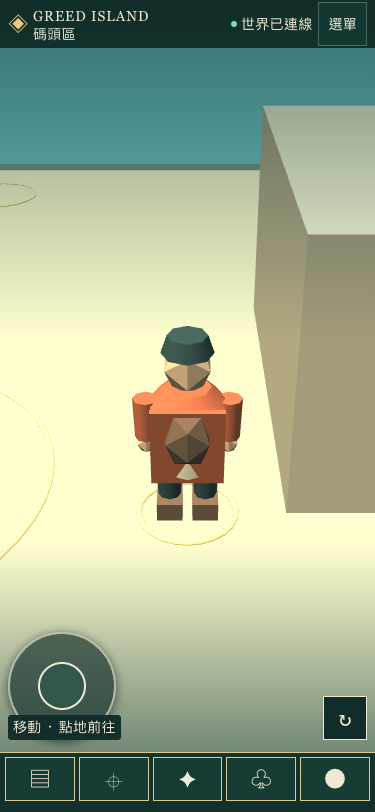
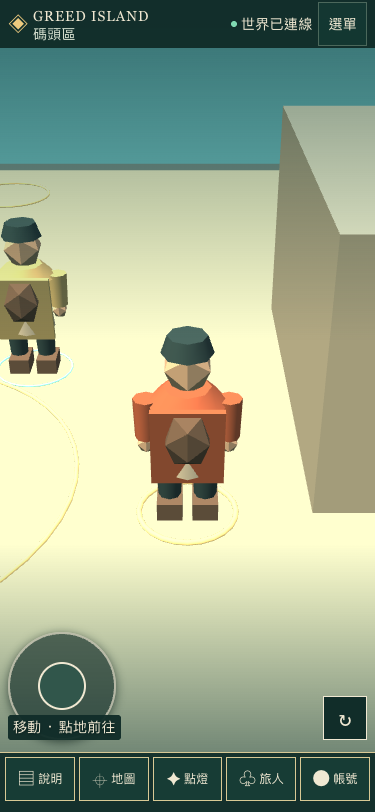
fix(web): finish desktop and mobile layout follow-up

diff --git a/e2e/mobile-layout.spec.ts b/e2e/mobile-layout.spec.ts
@@ -81,12 +81,69 @@ test('desktop 1280x800 keeps reset text and places the region selector below the
   const geometry = await page.evaluate(() => {
     const map = document.querySelector('.mp-map svg')!.getBoundingClientRect()
     const select = document.querySelector('#world-region')!.getBoundingClientRect()
+    const panel = document.querySelector('.mp-world-panel')!
     const overlapWidth = Math.max(0, Math.min(map.right, select.right) - Math.max(map.left, select.left))
     const overlapHeight = Math.max(0, Math.min(map.bottom, select.bottom) - Math.max(map.top, select.top))
-    return { map: { left: map.left, top: map.top, right: map.right, bottom: map.bottom }, select: { left: select.left, top: select.top, right: select.right, bottom: select.bottom }, overlapArea: overlapWidth * overlapHeight }
+    const scrollChains = ['.mp-players', '.mp-npcs', '.mp-messages'].map(selector => {
+      const list = panel.querySelector(selector)!
+      const overflow = []
+      for (let node: Element | null = list; node && panel.contains(node); node = node.parentElement) {
+        const value = getComputedStyle(node).overflowY
+        if (value === 'auto' || value === 'scroll') overflow.push(`${node.className}:${value}`)
+        if (node === panel) break
+      }
+      return { selector, count: overflow.length, overflow }
+    })
+    return { map: { left: map.left, top: map.top, right: map.right, bottom: map.bottom }, select: { left: select.left, top: select.top, right: select.right, bottom: select.bottom }, overlapArea: overlapWidth * overlapHeight, scrollChains }
   })
   expect(geometry.overlapArea, `map ${JSON.stringify(geometry.map)} / selector ${JSON.stringify(geometry.select)}`).toBe(0)
-  console.log(`[mobile-layout] desktop-reset visibleText=${await reset.evaluate(button => button.innerText)} mapBottom=${geometry.map.bottom.toFixed(1)} selectorTop=${geometry.select.top.toFixed(1)} overlap=${geometry.overlapArea}`)
+  expect(geometry.scrollChains, 'each desktop list has exactly one scrollable ancestor chain').toEqual([
+    { selector: '.mp-players', count: 1, overflow: ['mp-players:auto'] },
+    { selector: '.mp-npcs', count: 1, overflow: ['mp-npcs:auto'] },
+    { selector: '.mp-messages', count: 1, overflow: ['mp-messages:auto'] },
+  ])
+  console.log(`[mobile-layout] desktop-reset visibleText=${await reset.evaluate(button => button.innerText)} mapBottom=${geometry.map.bottom.toFixed(1)} selectorTop=${geometry.select.top.toFixed(1)} overlap=${geometry.overlapArea} scrollChainCounts=${geometry.scrollChains.map(chain => `${chain.selector}:${chain.count}`).join(',')}`)
+})
+
+test('mobile bottom tool buttons show two-character labels without clipping at 375, 393 and 430px', async ({ page }) => {
+  await mobilePage(page)
+  const expected = ['說明', '地圖', '點燈', '旅人', '帳號']
+  for (const size of sizes.filter(item => [375, 393, 430].includes(item.width))) {
+    await page.setViewportSize({ width: size.width, height: size.height })
+    const buttons = await page.locator('.mp-mobile-tools button').evaluateAll(elements => elements.map(button => {
+      const label = button.querySelector<HTMLElement>('.mp-tool-label')!
+      const style = getComputedStyle(label)
+      const rect = button.getBoundingClientRect()
+      return { label: label.innerText, fontSize: parseFloat(style.fontSize), whiteSpace: style.whiteSpace, scrollWidth: button.scrollWidth, clientWidth: button.clientWidth, height: rect.height }
+    }))
+    expect(buttons.map(button => button.label)).toEqual(expected)
+    for (const [index, button] of buttons.entries()) {
+      expect([...button.label].length, `${size.name} tool ${index} label length`).toBe(2)
+      expect(button.fontSize, `${size.name} tool ${button.label} font size`).toBeGreaterThanOrEqual(12)
+      expect(button.whiteSpace, `${size.name} tool ${button.label} no-wrap`).toBe('nowrap')
+      expect(button.scrollWidth, `${size.name} tool ${button.label} unclipped`).toBeLessThanOrEqual(button.clientWidth)
+      expect(button.height, `${size.name} tool ${button.label} touch height`).toBeGreaterThanOrEqual(44)
+    }
+    console.log(`[mobile-layout] tool-labels size=${size.name} labels=${buttons.map(button => button.label).join('/')} font=${Math.min(...buttons.map(button => button.fontSize))}px minHeight=${Math.min(...buttons.map(button => button.height))}px maxScroll=${Math.max(...buttons.map(button => button.scrollWidth - button.clientWidth))}`)
+  }
+})
+
+test('mobile traveller drawer keeps the first NPC row fully inside the scroll viewport', async ({ page }) => {
+  await mobilePage(page)
+  await page.getByRole('button', { name: '旅人與 NPC' }).click()
+  const firstNpc = page.locator('.mp-npcs li').first()
+  await expect(firstNpc).toBeVisible()
+  const boxes = await page.evaluate(() => {
+    const row = document.querySelector('.mp-npcs li')!.getBoundingClientRect()
+    const list = document.querySelector('.mp-npcs')!.getBoundingClientRect()
+    const drawer = document.querySelector('.mp-mobile-drawer')!.getBoundingClientRect()
+    return { rowTop: row.top, rowBottom: row.bottom, listTop: list.top, listBottom: list.bottom, drawerTop: drawer.top, drawerBottom: drawer.bottom, firstNpc: document.querySelector('.mp-npcs li')!.textContent?.trim() }
+  })
+  expect(boxes.rowTop, `first NPC row ${boxes.firstNpc} starts below drawer top`).toBeGreaterThanOrEqual(boxes.drawerTop)
+  expect(boxes.rowTop, `first NPC row ${boxes.firstNpc} starts at list row boundary`).toBeGreaterThanOrEqual(boxes.listTop)
+  expect(boxes.rowBottom, `first NPC row ${boxes.firstNpc} is fully visible in list`).toBeLessThanOrEqual(boxes.listBottom)
+  expect(boxes.rowBottom, `first NPC row ${boxes.firstNpc} is fully visible in drawer`).toBeLessThanOrEqual(boxes.drawerBottom)
+  console.log(`[mobile-layout] first-npc row=${boxes.firstNpc} top=${boxes.rowTop.toFixed(1)} bottom=${boxes.rowBottom.toFixed(1)} list=${boxes.listTop.toFixed(1)}..${boxes.listBottom.toFixed(1)} drawer=${boxes.drawerTop.toFixed(1)}..${boxes.drawerBottom.toFixed(1)}`)
 })
 
 async function mobilePage(page: Page) {
@@ -150,7 +207,7 @@ async function auditMobileUi(page: Page) {
     })
     const buttons = [...document.querySelectorAll('button')].filter(visible)
     const misses = buttons.flatMap(button => { const r = button.getBoundingClientRect(); return document.elementFromPoint(r.left + r.width / 2, r.top + r.height / 2) === button && r.width >= 44 && r.height >= 44 ? [] : [button.textContent?.trim() || button.getAttribute('aria-label') || 'unnamed'] })
-    const smallText = textElements.flatMap(el => { const size = parseFloat(getComputedStyle(el).fontSize); return size < 14 && !el.closest('.mp-authority,.mp-progress-note,.mp-controls-hint') ? [{ text: el.textContent?.trim().slice(0, 32), size }] : [] })
+    const smallText = textElements.flatMap(el => { const size = parseFloat(getComputedStyle(el).fontSize); const minimum = el.classList.contains('mp-tool-label') ? 12 : 14; return size < minimum && !el.closest('.mp-authority,.mp-progress-note,.mp-controls-hint') ? [{ text: el.textContent?.trim().slice(0, 32), size }] : [] })
     return { misses, smallText, lowContrast }
   })
 }
@@ -264,7 +321,7 @@ test('mobile readable text and visible button centers meet touch requirements', 
       const visible = (el: Element) => { const r = el.getBoundingClientRect(); return r.width > 0 && r.height > 0 && getComputedStyle(el).visibility !== 'hidden' }
       const buttons = [...document.querySelectorAll('button')].filter(visible)
       const misses = buttons.flatMap(button => { const r = button.getBoundingClientRect(); return document.elementFromPoint(r.left + r.width / 2, r.top + r.height / 2) === button && r.width >= 44 && r.height >= 44 ? [] : [button.textContent?.trim() || button.getAttribute('aria-label') || 'unnamed'] })
-      const smallText = [...document.querySelectorAll('body *')].filter(visible).filter(el => [...el.childNodes].some(n => n.nodeType === Node.TEXT_NODE && !!n.textContent?.trim())).flatMap(el => { const size = parseFloat(getComputedStyle(el).fontSize); return size < 14 && !el.closest('.mp-authority,.mp-progress-note,.mp-controls-hint') ? [{ text: el.textContent?.trim().slice(0, 32), size }] : [] })
+      const smallText = [...document.querySelectorAll('body *')].filter(visible).filter(el => [...el.childNodes].some(n => n.nodeType === Node.TEXT_NODE && !!n.textContent?.trim())).flatMap(el => { const size = parseFloat(getComputedStyle(el).fontSize); const minimum = el.classList.contains('mp-tool-label') ? 12 : 14; return size < minimum && !el.closest('.mp-authority,.mp-progress-note,.mp-controls-hint') ? [{ text: el.textContent?.trim().slice(0, 32), size }] : [] })
       const version = [...document.querySelectorAll('.mp-authority')].some(el => visible(el))
       return { viewport: innerWidth, scroll: document.documentElement.scrollWidth, misses, smallText, version }
     })

diff --git a/packages/web/src/multiplayer3d/multiplayer.css b/packages/web/src/multiplayer3d/multiplayer.css
@@ -18,8 +18,9 @@
 @media(min-width:768px){.mp-world-panel{top:335px;bottom:190px}.mp-map{width:160px}}
 @media(max-width:767px){.mp-map{width:112px}.mp-map select{font-size:10px;padding:3px}.mp-panel-toggle{top:285px}.mp-world-panel{top:335px;bottom:241px}.mp-progress-note{max-width:calc(100vw - 32px);font-size:8px}.mp-bottom{pointer-events:none}.mp-actions{bottom:128px}.mp-touch{bottom:142px}.mp-feedback{bottom:267px}}
 @media(max-width:767px) and (max-height:760px){.mp-world-panel{top:77px;bottom:241px;z-index:7}}
-.mp-world-panel{overflow-y:auto;overscroll-behavior:contain}.mp-world-panel .mp-players{flex:0 1 120px}.mp-world-panel .mp-panel-heading,.mp-world-panel .mp-chat-heading,.mp-world-panel .mp-npc-note{flex-shrink:0}.mp-world-panel .mp-npcs{min-height:60px}
-@media(min-width:1024px) and (max-height:800px){.mp-map{width:126px}.mp-map select{position:relative;left:-75px;width:220px;min-height:48px;white-space:normal}.mp-world-panel{top:310px;bottom:150px}}
+.mp-world-panel .mp-players{flex:0 1 120px}.mp-world-panel .mp-panel-heading,.mp-world-panel .mp-chat-heading,.mp-world-panel .mp-npc-note{flex-shrink:0}.mp-world-panel .mp-npcs{min-height:60px}
+@media(min-width:1024px) and (max-height:800px){.mp-map select{padding-left:5.7px;padding-right:5.7px}.mp-world-panel{top:310px;bottom:150px}}
+@media(min-width:768px){.mp-world-panel{overflow-y:hidden}}
 .mp-admin-recovery{padding:0 10px;font-size:11px!important}.mp-recovery-close{margin-top:16px;width:100%}.mp-recovery-target{font-size:13px;line-height:1.6}.mp-login>label{display:block;font-size:11px;margin:14px 0 8px}.mp-login>input{width:100%;min-height:44px;margin-bottom:8px}.mp-login>button{min-height:44px}.mp-login>small{overflow-wrap:anywhere}
 .mp-world-panel .mp-messages{min-height:90px;flex:0 1 150px}.mp-world-panel .mp-chat-form{flex-shrink:0;padding-bottom:8px}.mp-world-panel .mp-messages strong small{font-size:8px;color:#b8c7b2}
 .mp-game-links{display:flex;gap:12px;font-size:11px}.mp-game-links a{color:#eee5ca;min-height:44px;display:flex;align-items:center;white-space:nowrap}
@@ -29,18 +30,18 @@
 @media(max-width:767px){.mp-beacon-panel{left:16px;top:330px;width:calc(100% - 188px);max-height:calc(100% - 574px)}.mp-beacon-panel summary{padding:12px 10px;font-size:10px}.mp-beacon-panel[open]{width:calc(100% - 32px);max-height:calc(100% - 574px)}.mp-beacon-body p{font-size:11px}}
 @media(max-width:767px) and (max-height:760px){.mp-beacon-panel[open]{top:120px;max-height:calc(100% - 364px)}.mp-beacon-panel:not([open]){max-height:48px}}
 
-/* Mobile scene-first layout: keep world information legible without covering the play area. */
-.mp3d{overflow:hidden;overflow:clip;max-width:100vw;max-width:100dvw}
-.mp3d :is(.mp-mission,.mp-map,.mp-world-panel,.mp-actions,.mp-touch,.mp-beacon-panel,.mp-header,.mp-bottom,.mp-feedback){text-shadow:0 1px 3px #071b18}
-.mp3d :is(.mp-game-links,.mp-map,.mp-mission,.mp-actions,.mp-beacon-panel,.mp-feedback,.mp-controls-hint){color:#f0e8d2}
-.mp3d :is(.mp-game-links,.mp-map,.mp-mission,.mp-actions,.mp-beacon-panel,.mp-feedback){background-color:#102c28f5;border-color:#d8c995}
-.mp3d :is(.mp-progress-note,.mp-stick small,.mp-map small,.mp-mission p,.mp-connection,.mp-self p){color:#f0e8d2}
-.mp3d .mp-stick{width:112px;height:112px;border:2px solid #f0e8d2;background:#102c28eF;box-shadow:0 2px 10px #071b18aa}
-.mp3d .mp-stick>span{width:48px;height:48px;border:2px solid #f0e8d2;background:#31564b}
+/* Mobile scene-first layout: keep the world presentation unchanged at desktop sizes. */
 .mp-camera-reset-label,.mp-camera-reset-icon{pointer-events:none}
 .mp-camera-reset-icon{display:none}
-.mp3d .mp-game-links{flex-wrap:wrap;overflow:visible}
 @media(max-width:767px){
+  .mp3d{overflow:hidden;overflow:clip;max-width:100vw;max-width:100dvw}
+  .mp3d :is(.mp-mission,.mp-map,.mp-world-panel,.mp-actions,.mp-touch,.mp-beacon-panel,.mp-header,.mp-bottom,.mp-feedback){text-shadow:0 1px 3px #071b18}
+  .mp3d :is(.mp-game-links,.mp-map,.mp-mission,.mp-actions,.mp-beacon-panel,.mp-feedback,.mp-controls-hint){color:#f0e8d2}
+  .mp3d :is(.mp-game-links,.mp-map,.mp-mission,.mp-actions,.mp-beacon-panel,.mp-feedback){background-color:#102c28f5;border-color:#d8c995}
+  .mp3d :is(.mp-progress-note,.mp-stick small,.mp-map small,.mp-mission p,.mp-connection,.mp-self p){color:#f0e8d2}
+  .mp3d .mp-stick{width:112px;height:112px;border:2px solid #f0e8d2;background:#102c28eF;box-shadow:0 2px 10px #071b18aa}
+  .mp3d .mp-stick>span{width:48px;height:48px;border:2px solid #f0e8d2;background:#31564b}
+  .mp3d .mp-game-links{flex-wrap:wrap;overflow:visible}
   .mp-header{left:0;right:0;top:0;min-height:62px;padding:8px 12px;gap:8px;flex-wrap:wrap;background:#102c28f5}
   .mp-brand{min-width:0;flex:1 1 auto;margin:0}
   .mp-brand strong{font-size:13px;letter-spacing:1.5px}
@@ -150,7 +151,9 @@
   .mp-account-drawer .mp-authority{display:none}
   .mp-drawer-scrim{z-index:10;inset:48px 0 60px;background:#061a1866}
   .mp-mobile-tools{display:flex;position:absolute;z-index:12;left:0;right:0;bottom:0;min-height:calc(60px + env(safe-area-inset-bottom));padding:4px 5px env(safe-area-inset-bottom);gap:4px;justify-content:space-around;background:#102c28ed;border-top:1px solid #d8c995}
-  .mp-mobile-tools button{flex:1 1 0;min-width:0;min-height:44px;max-height:44px;padding:0 2px;font-size:22px;line-height:1;background:#173c35;border-color:#d8c995}
+  .mp-mobile-tools button{display:flex;align-items:center;justify-content:center;gap:3px;flex:1 1 0;min-width:0;height:44px;min-height:44px;max-height:44px;padding:0 2px;font-size:12px;line-height:1;white-space:nowrap;background:#173c35;border-color:#d8c995}
+  .mp-mobile-tools .mp-tool-icon{flex:0 0 auto;font-size:18px;line-height:1;pointer-events:none}
+  .mp-mobile-tools .mp-tool-label{flex:0 0 auto;font-size:12px;line-height:1;white-space:nowrap;pointer-events:none}
   .mp-mobile-tools button[aria-pressed=true]{background:#73552b;color:#fff0c2}
   .mp-panel-toggle,.mp-bottom{display:none!important}
   .mp-actions{left:auto;right:8px;bottom:calc(72px + env(safe-area-inset-bottom));width:auto;max-width:52px;background:transparent;gap:4px}

diff --git a/packages/web/src/multiplayer3d/Multiplayer3DPage.tsx b/packages/web/src/multiplayer3d/Multiplayer3DPage.tsx
@@ -160,7 +160,7 @@ export default function Multiplayer3DPage() {
     </section>
     {mobileDrawer && <div className="mp-drawer-scrim" aria-hidden="true" onClick={() => setMobileDrawer(null)} />}
     {snapshot && <button className="mp-panel-toggle" aria-expanded={panelOpen} aria-controls="mp-world-panel" onClick={() => setPanelOpen(open => !open)}>{panelOpen ? '收起在場名單' : `旅人與 NPC · ${onlinePlayers.length + snapshot.npcs.length}`}</button>}
-    {snapshot && <nav className="mp-mobile-tools" aria-label="場景工具"><button aria-label="碼頭區說明" aria-pressed={mobileDrawer === 'mission'} onClick={() => { setMenuOpen(false); setMobileDrawer(mobileDrawer === 'mission' ? null : 'mission') }}>▤</button><button aria-label="共同世界地圖" aria-pressed={mobileDrawer === 'map'} onClick={() => { setMenuOpen(false); setMobileDrawer(mobileDrawer === 'map' ? null : 'map') }}>⌖</button><button aria-label="點燈任務" aria-pressed={mobileDrawer === 'beacon'} onClick={() => { setMenuOpen(false); setMobileDrawer(mobileDrawer === 'beacon' ? null : 'beacon') }}>✦</button><button aria-label="旅人與 NPC" aria-pressed={mobileDrawer === 'people'} onClick={() => { setMenuOpen(false); setMobileDrawer(mobileDrawer === 'people' ? null : 'people') }}>♧</button><button aria-label="帳號卡" aria-pressed={mobileDrawer === 'account'} onClick={() => { setMenuOpen(false); setMobileDrawer(mobileDrawer === 'account' ? null : 'account') }}>●</button></nav>}
+    {snapshot && <nav className="mp-mobile-tools" aria-label="場景工具"><button aria-label="碼頭區說明" aria-pressed={mobileDrawer === 'mission'} onClick={() => { setMenuOpen(false); setMobileDrawer(mobileDrawer === 'mission' ? null : 'mission') }}><span className="mp-tool-icon" aria-hidden="true">▤</span><span className="mp-tool-label">說明</span></button><button aria-label="共同世界地圖" aria-pressed={mobileDrawer === 'map'} onClick={() => { setMenuOpen(false); setMobileDrawer(mobileDrawer === 'map' ? null : 'map') }}><span className="mp-tool-icon" aria-hidden="true">⌖</span><span className="mp-tool-label">地圖</span></button><button aria-label="點燈任務" aria-pressed={mobileDrawer === 'beacon'} onClick={() => { setMenuOpen(false); setMobileDrawer(mobileDrawer === 'beacon' ? null : 'beacon') }}><span className="mp-tool-icon" aria-hidden="true">✦</span><span className="mp-tool-label">點燈</span></button><button aria-label="旅人與 NPC" aria-pressed={mobileDrawer === 'people'} onClick={() => { setMenuOpen(false); setMobileDrawer(mobileDrawer === 'people' ? null : 'people') }}><span className="mp-tool-icon" aria-hidden="true">♧</span><span className="mp-tool-label">旅人</span></button><button aria-label="帳號卡" aria-pressed={mobileDrawer === 'account'} onClick={() => { setMenuOpen(false); setMobileDrawer(mobileDrawer === 'account' ? null : 'account') }}><span className="mp-tool-icon" aria-hidden="true">●</span><span className="mp-tool-label">帳號</span></button></nav>}
     {profile && <footer className="mp-bottom"><section className="mp-self" aria-label="自己的共同世界帳號"><span className="mp-avatar">旅</span><div><strong>{profile.displayName}</strong><p>帳號 #{profile.accountId}{self && <> · {self.x.toFixed(1)}, {self.z.toFixed(1)}</>}</p></div></section><small className="mp-authority">位置由伺服器保存 · v{APP_VERSION}</small><small className="mp-progress-note">{snapshot ? harborProgressText(snapshot.harborProgress) : '等待伺服器港口進度'}</small></footer>}
      {snapshot && selected && <div className="mp-actions"><small>{selected.id === snapshot.tileId ? `目前所在：${selected.name}` : `${selected.name} · ${regionStatus(selected)}`}</small>{selected.id !== snapshot.tileId && <button className="mp-primary" disabled={!online || !crossing?.ready || transitionBusy} onClick={() => { void transition() }}>{transitionBusy ? '通路申請中…' : crossing?.text}</button>}<button className="mp-camera-reset" aria-label="重置鏡頭" onClick={() => { controls.current.recenter = true; canvasRef.current?.focus({ preventScroll: true }) }}><span className="mp-camera-reset-label">重置鏡頭</span><span className="mp-camera-reset-icon" aria-hidden="true">↻</span></button></div>}
     {snapshot && <div className="mp-touch"><div className="mp-stick" role="group" aria-label="觸控移動搖桿；也可點擊地面前往目的地" onPointerDown={event => { if (controls.current.paused) return; event.currentTarget.setPointerCapture(event.pointerId); moveStick(event) }} onPointerMove={moveStick} onPointerUp={releaseStick} onPointerCancel={releaseStick} onLostPointerCapture={releaseStick}><span style={{ transform: `translate(${stick.x}px, ${stick.y}px)` }} /><small>移動 · 點地前往</small></div></div>}

diff --git a/PROGRESS.md b/PROGRESS.md
@@ -2,11 +2,23 @@
 
 - Mobile `<768px` now keeps the 3D scene exposed behind a 48px header and five icon touch targets; scene details, map, beacon, travellers/NPC chat and account information share one dismissible bottom drawer. Menu navigation contains world overview, profile, codex, social/trading, account recovery and logout. Desktop panel/navigation presentation remains in place.
 - `e2e/mobile-layout.spec.ts`: all 7 tests pass locally against `localhost:4178/game` using `mobile-qa-1014`; `auditMobileUi` checks all visible text at **≥4.5:1** contrast, **≥14px** font and visible button centers/44px targets. `npm run build:web` and web tests pass (57 files / 521 tests). The first CI run `38488752223` exposed that `aria-hidden` on the desktop `display:contents` wrapper hid world chat from role queries; desktop wrapper is now exposed and the desktop test asserts the chat input/send button are visible. Follow-up CI runs `38489878912` and `38490787759` passed all 4 jobs; browser E2E passed 9 tests.
-- Measured canvas visibility (closed / lowest open drawer): 375×812 **86.3% / 50%**; 393×852 **86.3% / 50%**; 430×932 **87.5% / 45%**. Menu open **65%**. Header **48px**. Horizontal scroll: none at all tested sizes. Desktop 1280×800 selector width **218px**, label **100.5/176px**.
+- `e2e/mobile-layout.spec.ts`: all 10 tests pass locally against `localhost:4178/game` using `mobile-qa-1014`; `auditMobileUi` checks text contrast at **≥4.5:1**, body text at **≥14px** (tool labels ≥12px), and visible button centers/44px targets. `npm run build:web` and web tests pass (57 files / 521 tests). The first CI run `38488752223` exposed that `aria-hidden` on the desktop `display:contents` wrapper hid world chat from role queries; desktop wrapper is now exposed and the desktop test asserts the chat input/send button are visible. Follow-up CI runs `38489878912` and `38490787759` passed all 4 jobs; browser E2E passed 9 tests.
+- Measured canvas visibility (closed / lowest open drawer): 375×812 **86.3% / 50%**; 393×852 **86.3% / 50%**; 430×932 **87.5% / 45%**. Menu open **65%**. Header **48px**. Horizontal scroll: none at all tested sizes. Desktop 1280×800 selector width **218px**, label **100.5/176px** before desktop restoration.
 - `beacon action is hit-testable at its center on mobile`: center `elementFromPoint` is the action button; screenshot `packages/web/evidence/mobile-layout/a-beacon-button-center.png`.
 - `NPC chat input is clickable, editable, readable and unobscured`: center hit succeeds, fill/readback succeeds, font **16px**; screenshot `packages/web/evidence/mobile-layout/b-npc-chat-input.png`.
 - `two-second full joystick deflection moves the server-persisted account position by at least one unit`: latest run **3.7,-5.9 → -3.9,-5.9**, delta **7.60**; no server changes; screenshot `packages/web/evidence/mobile-layout/c-joystick-two-seconds.png`.
 - `mobile readable text and visible button centers meet touch requirements`: readable text ≥14px, visible buttons ≥44×44px with hit-test center, version hidden; screenshot `packages/web/evidence/mobile-layout/d-readable-controls.png`. Menu screenshot: `packages/web/evidence/mobile-layout/e-mobile-menu.png`.
+
+## 2026-10-14 — PR #11 desktop and mobile follow-up
+
+- Screenshots compare `origin/main@811c713` before and `fix/mobile-game-layout` after at 1280×800: `packages/web/evidence/mobile-layout/desktop-1280-before.png` and `desktop-1280-after.png`. Reset text is `重置鏡頭` in both. Map SVG rect is **1104,124–1240,231** and selector rect **1104,231–1240,275** in both; overlap **0px²**.
+- `origin/main@811c713` also had a panel-level `overflow-y:auto` around inner list scrollers. The follow-up removes the parent desktop scroll so player, NPC and message list chains each have **1** `overflow-y:auto/scroll` container. The origin/main screenshot uses overlay scrollbars, so no visible scrollbar difference in the paired images.
+- Mobile bottom labels: `說明／地圖／點燈／旅人／帳號`; each **2 characters**, **12px**, **44px** button height, **0px** horizontal overflow at 375/393/430px.
+- First NPC list item fits fully in the open drawer: row **y=566.7–604.7**, list **566.7–642.7**, drawer **388.7–746.0**.
+- `desktop 1280x800 keeps reset text and places the region selector below the map image`: reset text visible; map/selector overlap **0px²**; each list scroll chain count **1**.
+- `mobile bottom tool buttons show two-character labels without clipping at 375, 393 and 430px`: all five labels fit, **0px** scroll overflow, min height **44px**.
+- `mobile traveller drawer keeps the first NPC row fully inside the scroll viewport`: first item starts **178.0px** below drawer top and is fully within the list viewport.
+- `e2e/mobile-layout.spec.ts`: **10/10 passed**; existing mobile canvas checks remain 375 **86.3%/50%**, 393 **86.3%/50%**, 430 **87.5%/45%** (closed/open minimum). CI for this follow-up is pending.
 
 ## 2026-10-14 — Current main merged into legacy import branch
 
